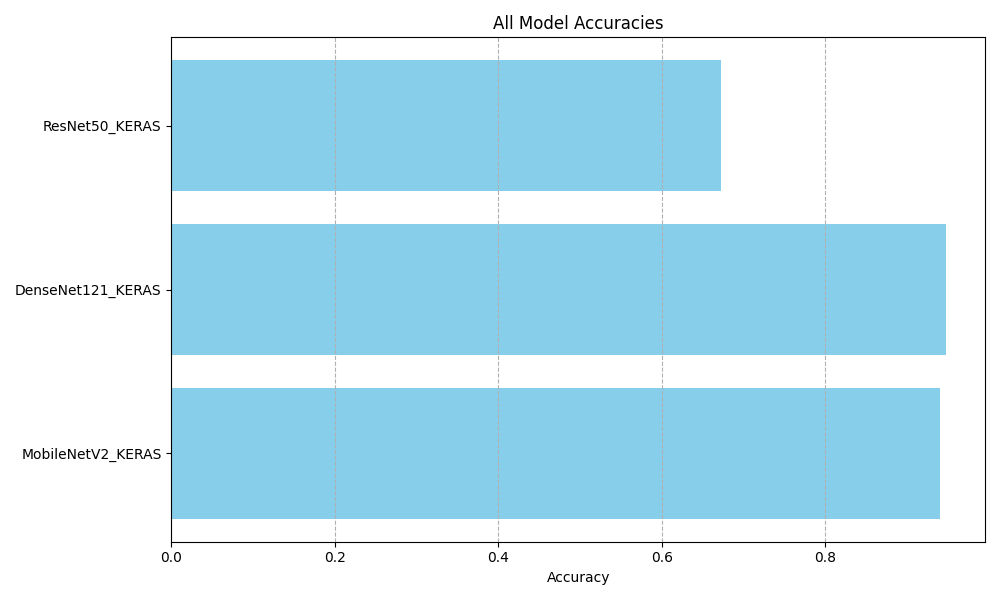
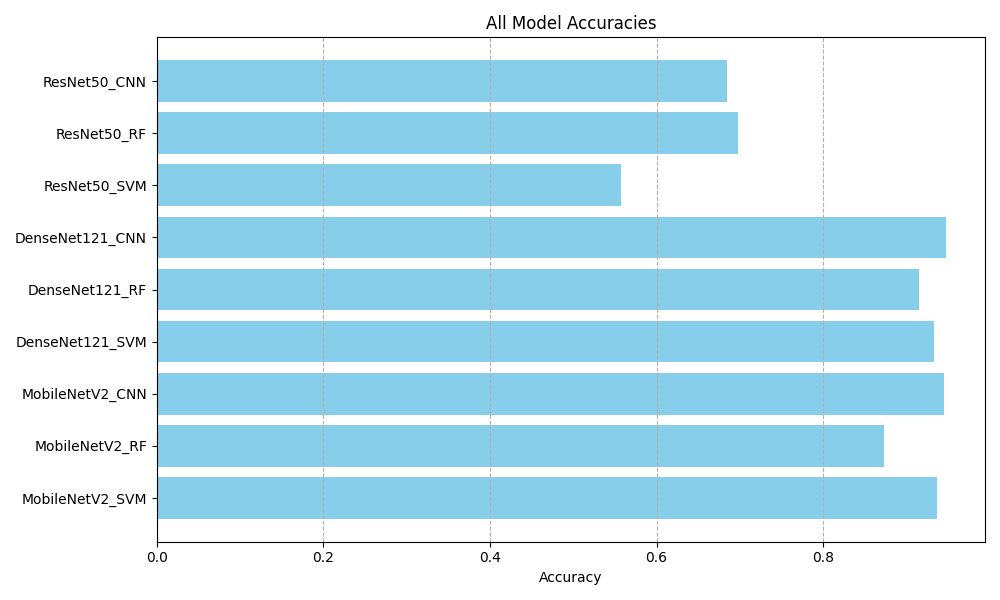
Updaeted some areas

diff --git a/Model_Training/POTATO/Transferlearning_model_script.py b/Model_Training/POTATO/Transferlearning_model_script.py
@@ -2,14 +2,17 @@ import os
 import numpy as np
 import tensorflow as tf
 import matplotlib.pyplot as plt
+import joblib
 from tqdm import tqdm
 from sklearn.model_selection import train_test_split
-from sklearn.metrics import accuracy_score, confusion_matrix, ConfusionMatrixDisplay
+from sklearn.metrics import classification_report, accuracy_score
+from sklearn.svm import SVC
+from sklearn.ensemble import RandomForestClassifier
 from tensorflow.keras.applications import MobileNetV2, DenseNet121, ResNet50
 from tensorflow.keras.preprocessing import image_dataset_from_directory
-from tensorflow.keras import models, layers, optimizers, callbacks
-import h5py
-from sklearn.metrics import classification_report
+from tensorflow.keras import models, layers, callbacks
+import seaborn as sns
+import json
 
 # ====================
 # CONFIGURATION
@@ -22,17 +25,6 @@ class Config:
     SEED = 42
     PLOT_DIR = "./GRAPH"
     MODEL_DIR = "./MODELS"
-
-# ====================
-# GPU MEMORY LIMITATION HANDLING
-# ====================
-gpus = tf.config.experimental.list_physical_devices('GPU')
-if gpus:
-    try:
-        for gpu in gpus:
-            tf.config.experimental.set_memory_growth(gpu, True)
-    except RuntimeError as e:
-        print(e)
 
 # ====================
 # DATA PIPELINE
@@ -83,96 +75,88 @@ class FeatureExtractor:
         features, labels = [], []
         dataset = dataset.unbatch().batch(4)
 
-        for batch_images, batch_labels in tqdm(dataset, desc="Extracting Features", colour="white", bar_format="{l_bar}{bar}| {n_fmt}/{total_fmt}"):
+        for batch_images, batch_labels in tqdm(dataset, desc="Extracting Features"):
             preprocessed = tf.keras.applications.mobilenet_v2.preprocess_input(batch_images)
             batch_features = self.model(preprocessed, training=False).numpy()
             features.append(batch_features)
             labels.append(batch_labels.numpy())
 
         features = np.concatenate(features)
-        labels = np.concatenate(labels)
+        labels = np.argmax(np.concatenate(labels), axis=1)
         return features, labels
 
 # ====================
-# TRAINER
+# CLASSIFIER WRAPPER
 # ====================
 class MLModelTrainer:
-    def __init__(self, input_shape, num_classes):
-        self.model = models.Sequential([
-            layers.Input(shape=input_shape),
-            layers.Dense(256, activation='relu'),
-            layers.Dropout(0.3),
-            layers.Dense(num_classes, activation='softmax')
-        ])
-        self.model.compile(optimizer='adam', loss='categorical_crossentropy', metrics=['accuracy'])
+    def __init__(self, model_type, input_shape=None, num_classes=None):
+        self.model_type = model_type
+        if model_type == "svm":
+            self.model = SVC(probability=True)
+        elif model_type == "rf":
+            self.model = RandomForestClassifier(n_estimators=100)
+        elif model_type == "cnn":
+            if input_shape is None or num_classes is None:
+                raise ValueError("CNN requires input_shape and num_classes")
+            self.model = models.Sequential([
+                layers.Input(shape=input_shape),
+                layers.Dense(256, activation='relu'),
+                layers.Dropout(0.3),
+                layers.Dense(num_classes, activation='softmax')
+            ])
+            self.model.compile(optimizer='adam', loss='sparse_categorical_crossentropy', metrics=['accuracy'])
+        else:
+            raise ValueError("Unsupported model type")
 
-    def train(self, X_train, y_train, X_val, y_val, epochs=10):
-        early_stop = callbacks.EarlyStopping(monitor='val_loss', patience=3, restore_best_weights=True)
-        self.history = self.model.fit(
-            X_train, y_train,
-            validation_data=(X_val, y_val),
-            epochs=epochs,
-            callbacks=[early_stop],
-            verbose=1
-        )
+    def train(self, X_train, y_train, X_val=None, y_val=None):
+        if self.model_type == "cnn":
+            early_stop = callbacks.EarlyStopping(monitor='val_loss', patience=3, restore_best_weights=True)
+            self.history = self.model.fit(
+                X_train, y_train,
+                validation_data=(X_val, y_val),
+                epochs=10,
+                callbacks=[early_stop],
+                verbose=1
+            )
+        else:
+            self.model.fit(X_train, y_train)
 
     def evaluate(self, X_test, y_test):
-        y_pred_probs = self.model.predict(X_test, verbose=0)
-        y_true = np.argmax(y_test, axis=1)
-        y_pred = np.argmax(y_pred_probs, axis=1)
+        if self.model_type == "cnn":
+            y_pred = np.argmax(self.model.predict(X_test), axis=1)
+        else:
+            y_pred = self.model.predict(X_test)
+        acc = accuracy_score(y_test, y_pred)
+        report = classification_report(y_test, y_pred, output_dict=True)
+        return acc, report, y_pred
 
-        report = classification_report(y_true, y_pred, output_dict=True)
-        loss, acc = self.model.evaluate(X_test, y_test, verbose=0)
-        print(f"\nTest Loss: {loss:.4f}, Accuracy: {acc:.4f}")
-        return acc, report
-    def save(self, save_path, model_name):
+    def save(self, save_path):
         os.makedirs(os.path.dirname(save_path), exist_ok=True)
-        self.model.save(save_path)
-        print(f"Model saved to {save_path}")
-
-        with h5py.File(save_path, 'a') as f:
-            hist_group = f.create_group(f"training_history/{model_name}")
-            for key, val in self.history.history.items():
-                hist_group.create_dataset(key, data=val)
-            hist_group.attrs['epochs'] = len(self.history.history['loss'])
-        print(f"Training history saved under group 'training_history/{model_name}' in {save_path}")
+        if self.model_type == "cnn":
+            self.model.save(save_path)
+        else:
+            joblib.dump(self.model, save_path)
 
 # ====================
-# PLOTTING
+# HEATMAP PLOTTING
 # ====================
-def save_accuracy_plot(model_accuracies, title, save_path):
-    models = list(model_accuracies.keys())
-    accuracies = list(model_accuracies.values())
-
-    plt.figure(figsize=(10, 6))
-    plt.barh(models, accuracies, color='skyblue')
-    plt.xlabel('Accuracy')
-    plt.title(title)
-    plt.grid(True, axis='x', linestyle='--')
-    plt.tight_layout()
-
-    os.makedirs(os.path.dirname(save_path), exist_ok=True)
-    plt.savefig(save_path)
-    plt.close()
-    print(f"Accuracy plot saved to {save_path}")
-import json
-import seaborn as sns
-
 def plot_classification_heatmap(report, labels, title, save_path):
     report_matrix = np.array([[
         report[str(i)]['precision'],
         report[str(i)]['recall'],
         report[str(i)]['f1-score']
     ] for i in range(len(labels))])
-    
+
     plt.figure(figsize=(8, 6))
     sns.heatmap(report_matrix, annot=True, fmt=".2f", xticklabels=['Precision', 'Recall', 'F1-Score'], yticklabels=labels, cmap="Blues")
     plt.title(title)
     plt.tight_layout()
     plt.savefig(save_path)
     plt.close()
-    print(f"Classification report heatmap saved to {save_path}")
 
+# ====================
+# MAIN EXECUTION
+# ====================
 def main():
     config = Config()
     dataset, class_names = load_data(config)
@@ -187,38 +171,50 @@ def main():
     all_model_accuracies = {}
 
     for model_name, base_model_fn in base_models.items():
-        print(f"\n--- Using {model_name} for feature extraction ---")
+        print(f"\n--- Using {model_name} ---")
         extractor = FeatureExtractor(base_model_fn, config.IMG_SIZE)
         X, y = extractor.extract(dataset)
-        y = tf.keras.utils.to_categorical(np.argmax(y, axis=1), num_classes)
 
         X_train, X_test, y_train, y_test = train_test_split(X, y, test_size=0.2, random_state=config.SEED)
         X_train, X_val, y_train, y_val = train_test_split(X_train, y_train, test_size=0.2, random_state=config.SEED)
 
-        trainer = MLModelTrainer(input_shape=X.shape[1:], num_classes=num_classes)
-        trainer.train(X_train, y_train, X_val, y_val, epochs=10)
-        acc, report = trainer.evaluate(X_test, y_test)
+        for clf in ["svm", "rf", "cnn"]:
+            print(f"Training {clf.upper()}...")
+            if clf == "cnn":
+                trainer = MLModelTrainer(clf, input_shape=X.shape[1:], num_classes=num_classes)
+                trainer.train(X_train, y_train, X_val, y_val)
+            else:
+                trainer = MLModelTrainer(clf)
+                trainer.train(X_train, y_train)
 
-        # Save model
-        model_save_path = os.path.join(config.MODEL_DIR, model_name, f"{model_name}_KERAS.h5")
-        trainer.save(model_save_path, model_name)
+            acc, report, y_pred = trainer.evaluate(X_test, y_test)
+            print(f"{clf.upper()} Accuracy: {acc:.4f}")
 
-        # Store accuracy only in the JSON
-        all_model_accuracies[f"{model_name}_KERAS"] = round(acc, 4)
+            sub_dir = os.path.join(config.PLOT_DIR, model_name, clf.upper())
+            os.makedirs(sub_dir, exist_ok=True)
+            plot_path = os.path.join(sub_dir, f"{model_name}_{clf}_report.png")
+            plot_classification_heatmap(report, class_names, f"{model_name} - {clf.upper()} Report", plot_path)
 
-        # Save classification report heatmap
-        report_heatmap_path = os.path.join(config.PLOT_DIR, "Comparison", f"{model_name}_report_heatmap.png")
-        os.makedirs(os.path.dirname(report_heatmap_path), exist_ok=True)
-        plot_classification_heatmap(report, class_names, f"{model_name} Classification Report", report_heatmap_path)
+            if clf == "cnn":
+                save_path = os.path.join(config.MODEL_DIR, model_name, f"CNN_model.h5")
+            else:
+                save_path = os.path.join(config.MODEL_DIR, model_name, f"{clf.upper()}_model.pkl")
 
-    # === Save accuracy bar plot ===
+            trainer.save(save_path)
+            all_model_accuracies[f"{model_name}_{clf.upper()}"] = acc
+
     comparison_dir = os.path.join(config.PLOT_DIR, "Comparison")
     os.makedirs(comparison_dir, exist_ok=True)
 
-    comparison_plot_path = os.path.join(comparison_dir, "all_model_accuracies.png")
-    save_accuracy_plot(all_model_accuracies, "All Model Accuracies", comparison_plot_path)
+    plt.figure(figsize=(10, 6))
+    plt.barh(list(all_model_accuracies.keys()), list(all_model_accuracies.values()), color='skyblue')
+    plt.xlabel('Accuracy')
+    plt.title('All Model Accuracies')
+    plt.grid(True, axis='x', linestyle='--')
+    plt.tight_layout()
+    plt.savefig(os.path.join(comparison_dir, "all_model_accuracies.png"))
+    plt.close()
 
-    # === Save model accuracies to JSON ===
     json_path = os.path.join(comparison_dir, "model_metrics.json")
     with open(json_path, "w") as f:
         json.dump(

diff --git a/BASE_MODEL_COMAPRISON.py b/BASE_MODEL_COMAPRISON.py
@@ -3,26 +3,26 @@ import json
 import matplotlib.pyplot as plt
 
 # Step 1: Base paper models and their accuracies
-# base_models = [
-#     "EfficientB5Net", "InceptionV3Net", "DenseNet201", "AlexNet", "ResNet101", "VGG19",
-#     "GOGLENet", "PP-DCLNet", "Dilated CNN and Elman", "ResNet50 + EC-BAM", "FasterRCNN",
-#     "DCNN (RESNET)", "DCNN + YOLO", "YOLO-CNN", "D.T + CNN", "Customized GA", "BPN-FA",
-#     "U-Net", "Modified U-Net", "K.S", "RS-Net", "ResNeXt", "MobileNet", "DenseNet121",
-#     "PseuCNN", "Omni-FBPDCNN", "TL FBP-CNN", "A multiinput ResNet", "GLCM + Haralick",
-#     "KMC + GLCM + CNN", "TL (InceptionV3, MobileNetV2, DenseNet121)", 
-#     "TL (ResNet101, VGG16, VGG19, GoogleNet, AlexNet, ResNet50)",
-#     "SVM", "CNN", "CNN", "SVM", "KNN", "KNN", "RF", "RF"
-# ]
+base_models = [
+    "EfficientB5Net", "InceptionV3Net", "DenseNet201", "AlexNet", "ResNet101", "VGG19",
+    "GOGLENet", "PP-DCLNet", "Dilated CNN and Elman", "ResNet50 + EC-BAM", "FasterRCNN",
+    "DCNN (RESNET)", "DCNN + YOLO", "YOLO-CNN", "D.T + CNN", "Customized GA", "BPN-FA",
+    "U-Net", "Modified U-Net", "K.S", "RS-Net", "ResNeXt", "MobileNet", "DenseNet121",
+    "PseuCNN", "Omni-FBPDCNN", "TL FBP-CNN", "A multiinput ResNet", "GLCM + Haralick",
+    "KMC + GLCM + CNN", "TL (InceptionV3, MobileNetV2, DenseNet121)", 
+    "TL (ResNet101, VGG16, VGG19, GoogleNet, AlexNet, ResNet50)",
+    "SVM", "CNN", "CNN", "SVM", "KNN", "KNN", "RF", "RF"
+]
 
-# base_accuracies = [
-#     94.51, 90.53, 89.55, 92.70, 96.00, 96.10,
-#     95.71, 96.00, 95.71, 99.97, 94.50, 98.12,
-#     99.89, 99.90, 99.92, 94.86, 95.63, 98.35,
-#     98.49, 97.43, 91.61, 77.56, 76.16, 74.53,
-#     79.32, 94.29, 94.60, 97.48, 98.30, 97.63,
-#     98.39, 98.90, 99.92, 100.00, 95.29, 99.00,
-#     96.00, 94.50, 91.10, 96.00
-# ]
+base_accuracies = [
+    94.51, 90.53, 89.55, 92.70, 96.00, 96.10,
+    95.71, 96.00, 95.71, 99.97, 94.50, 98.12,
+    99.89, 99.90, 99.92, 94.86, 95.63, 98.35,
+    98.49, 97.43, 91.61, 77.56, 76.16, 74.53,
+    79.32, 94.29, 94.60, 97.48, 98.30, 97.63,
+    98.39, 98.90, 99.92, 100.00, 95.29, 99.00,
+    96.00, 94.50, 91.10, 96.00
+]
 
 # Step 2: Your model accuracy collection
 your_models = []
@@ -64,16 +64,16 @@ for plant, path in model_metric_paths.items():
             your_colors.append('red')
 
 # Step 4: Combine all data
-all_models =  your_models
-all_accuracies = your_accuracies
-all_colors =    your_colors
+all_models = base_models + your_models
+all_accuracies = base_accuracies + your_accuracies
+all_colors = ['skyblue'] * len(base_models) + your_colors
 
 # Step 5: Plot and save
 plt.figure(figsize=(28, 10))
 bars = plt.bar(range(len(all_models)), all_accuracies, color=all_colors)
 plt.xticks(range(len(all_models)), all_models, rotation=75, ha='right', fontsize=7)
 plt.ylabel("Accuracy (%)")
-plt.title("Accuracy Comparison of  Models")
+plt.title("Accuracy Comparison: Base Paper vs Our Models")
 
 # Annotate each bar
 for bar, acc in zip(bars, all_accuracies):
@@ -82,5 +82,5 @@ for bar, acc in zip(bars, all_accuracies):
 
 # Save figure
 plt.tight_layout()
-plt.savefig("MODELS_ACCURACY_ANALYSIS.png", dpi=300, bbox_inches='tight')
+plt.savefig("BASE_MODEL_ACCURACY_COMPARISON.png", dpi=300, bbox_inches='tight')
 print("Saved: BASE_MODEL_ACCURACY_COMPARISON.png")

diff --git a/Backend/app.py b/Backend/app.py
@@ -16,7 +16,7 @@ IMG_SIZE = (224, 224)
 
 PLANT_CONFIGS = {
     'potato': {
-        'model_path': "/home/smurfy/Desktop/Plant-Doctor/Model_Training/POTATO/MODELS/MobileNetV2/SVM/MobileNetV2_SVM.joblib",
+        'model_path': "/home/smurfy/Desktop/Plant-Doctor/Backend/Models/POTATO_MobileNetV2_SVM.joblib",
         'model_type': 'svm',
         'class_names': [
             "Bacterial Wilt", "Early Blight", "Healthy", "Late Blight", "Leaf Roll Virus",
@@ -24,20 +24,20 @@ PLANT_CONFIGS = {
         ]
     },
     'bean': {
-        'model_path': "/home/smurfy/Desktop/Plant-Doctor/Model_Training/BEAN/MODELS/MobileNetV2/SVM/MobileNetV2_SVM.joblib",
+        'model_path': "/home/smurfy/Desktop/Plant-Doctor/Backend/Models/BEAN_MobileNetV2_SVM.joblib",
         'model_type': 'svm',
         'class_names': [
             "Angular Leaf Spot", "Bean Rust", "Healthy"
         ]
     },
     'grape': {
-        'model_path': "/home/smurfy/Desktop/Plant-Doctor/Model_Training/GRAPE/MODELS/MobileNetV2/CNN/MobileNetV2_CNN.h5",
+        'model_path': "/home/smurfy/Desktop/Plant-Doctor/Backend/Models/GRAPE_MobileNetV2_CNN.h5",
         'model_type': 'keras',
         'class_names': ['Black Rot', 'ESCA', 'healthy', 'Leaf Blight']
     }
 }
 
-TOMATO_MODEL_PATH = "/home/smurfy/Desktop/Plant-Doctor/Model_Training/TOMATO/MODELS/NEW.h5"
+TOMATO_MODEL_PATH = "/home/smurfy/Desktop/Plant-Doctor/Backend/Models/TOMATO_MobileNetV2_CNN.h5.h5"
 TOMATO_CLASSES = [
     "Bacterial Spot", "Early Blight", "Healthy", "Late Blight", "Leaf Mold",
     "Septoria Leaf Spot", "Spider Mites", "Target Spot",
